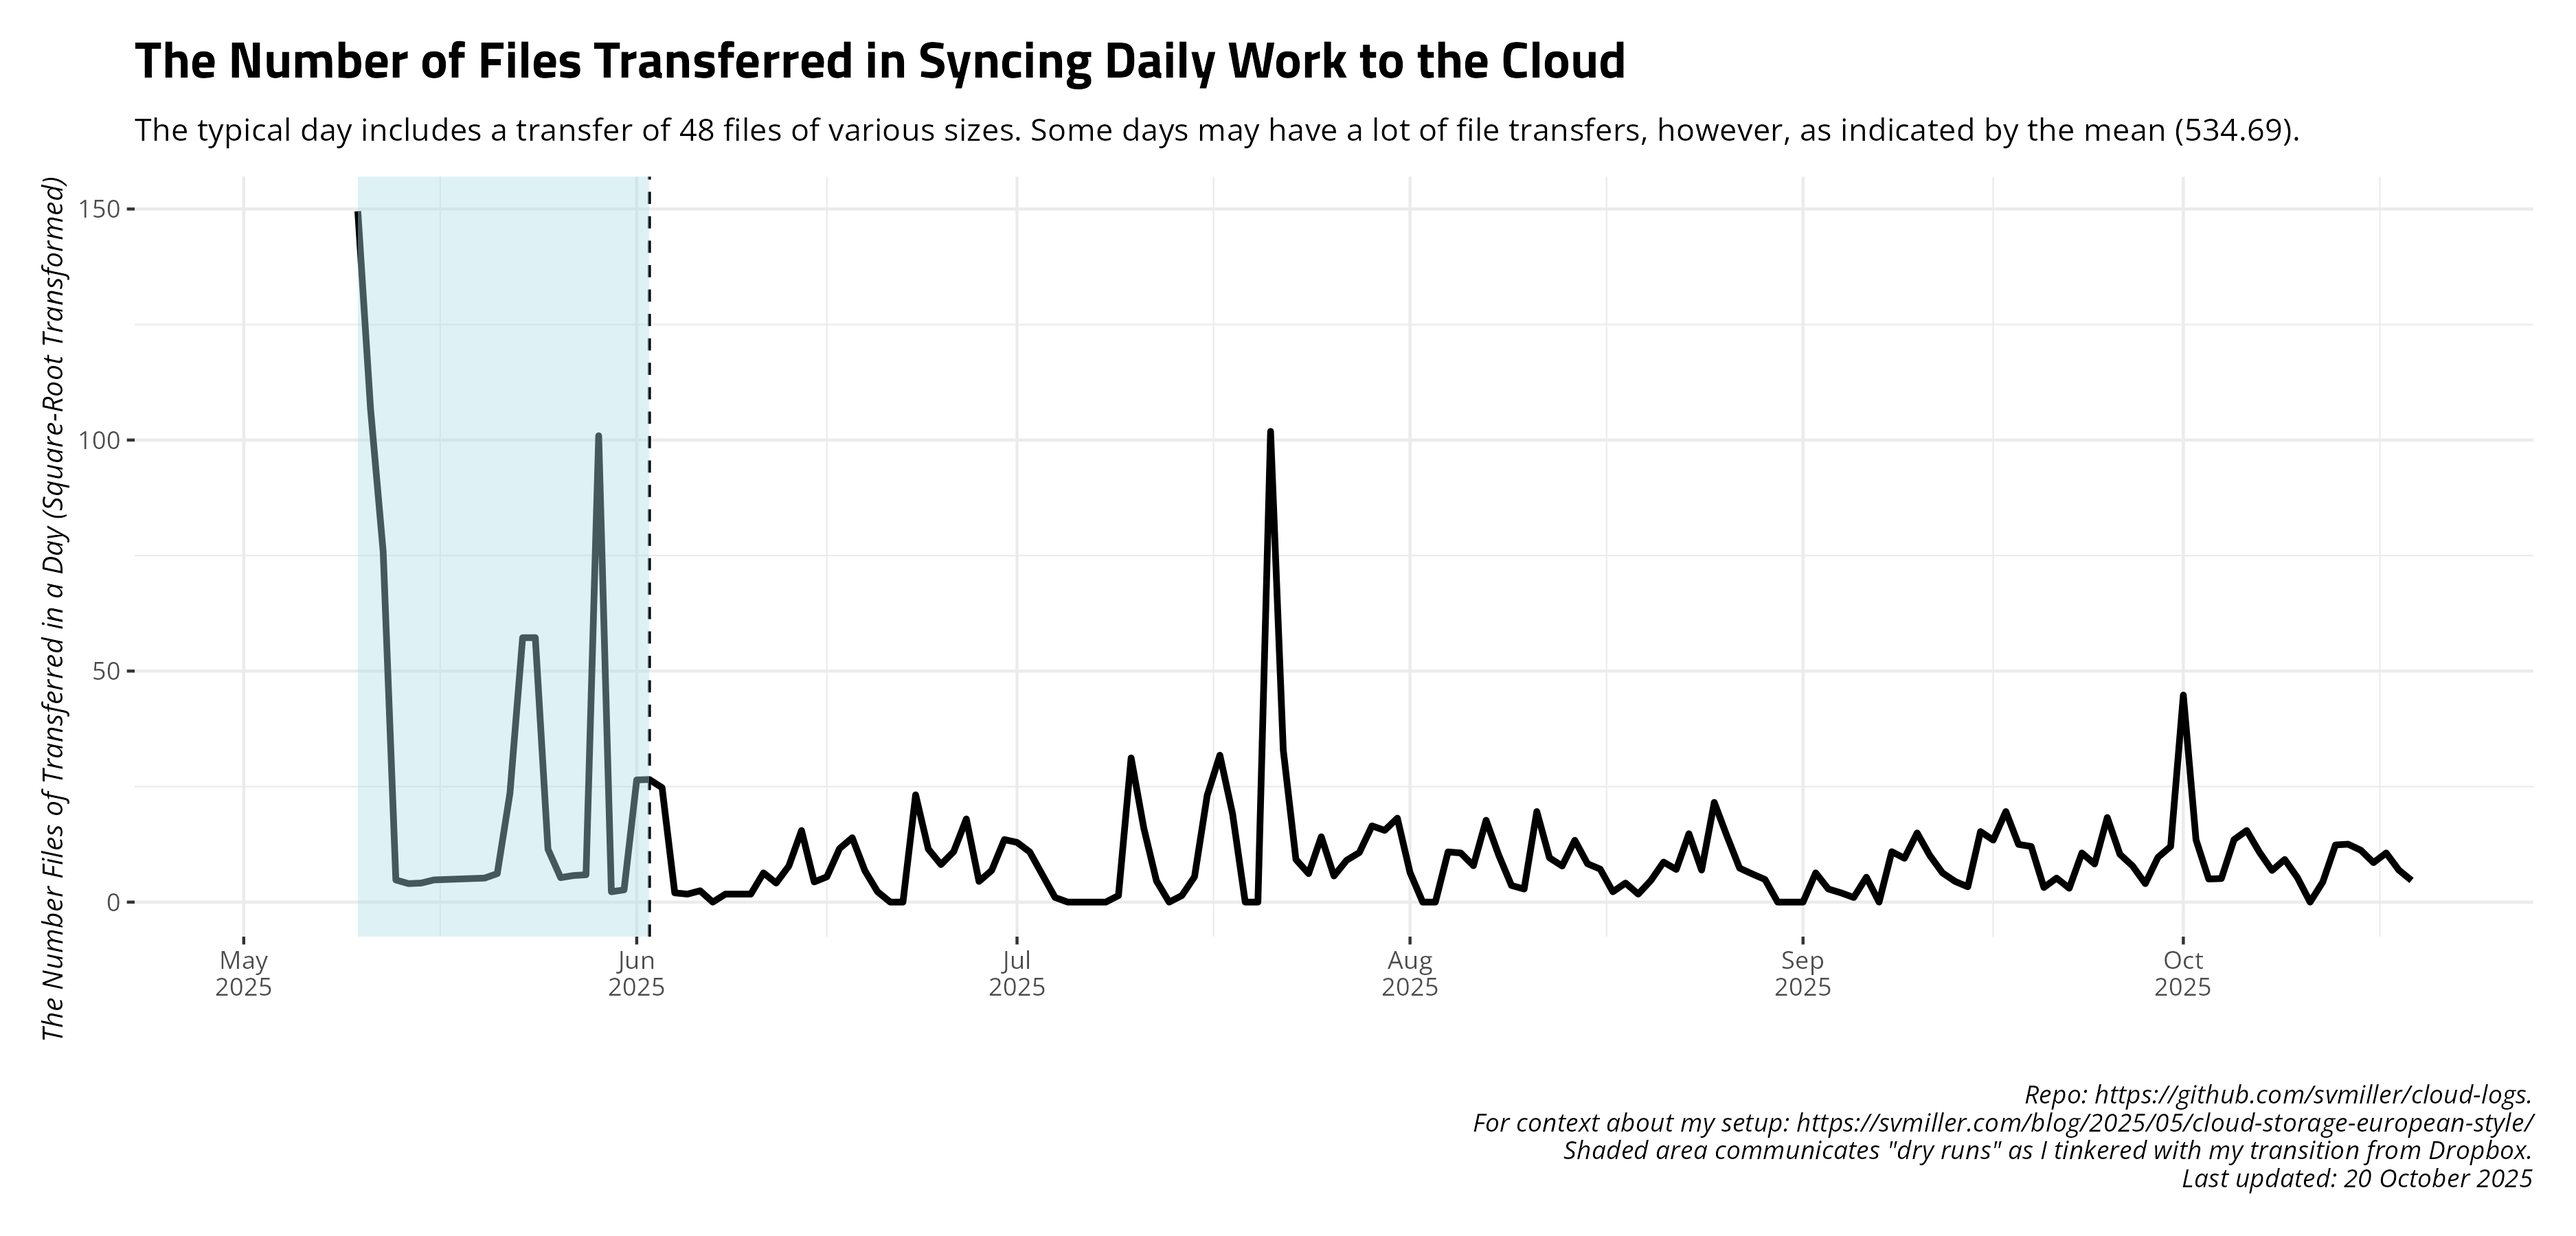
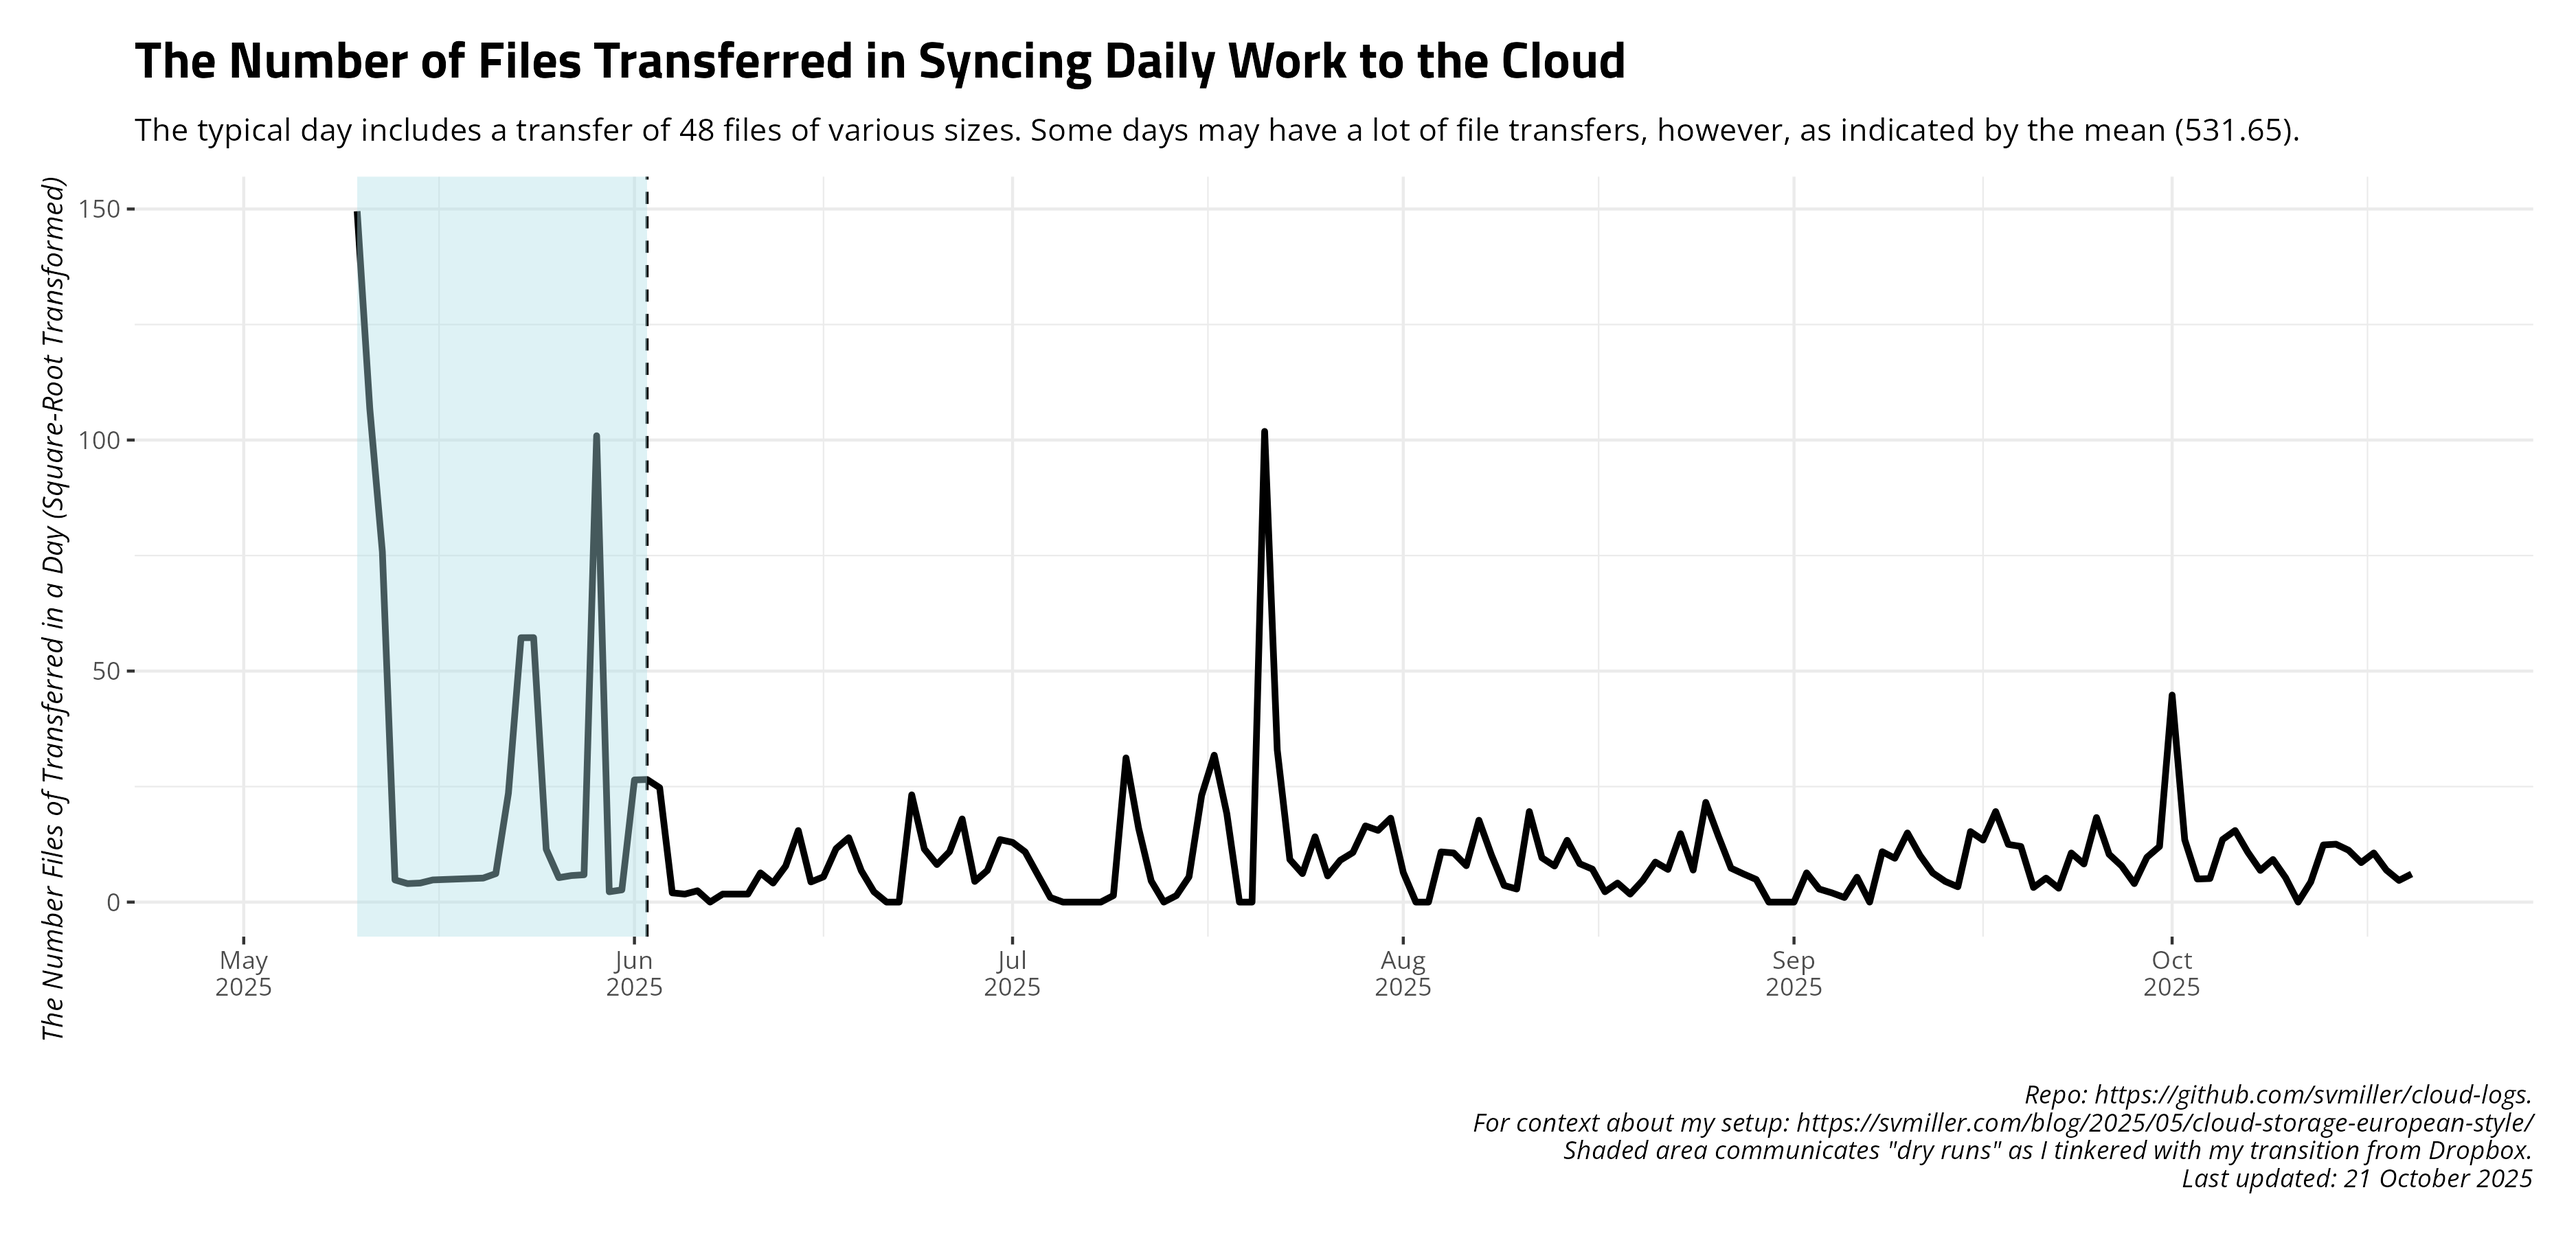
Date: 2025-10-21 09:00:14. Hi mom!

diff --git a/README.md b/README.md
@@ -27,17 +27,17 @@ and uploads to Github.
     #> # A tibble: 14 × 4
     #>    date       ftransfer stransfer   elapsed
     #>    <date>         <dbl> <chr>       <chr>  
-    #>  1 2025-10-06       240 27.655 MiB  7m58.9s
-    #>  2 2025-10-07       117 4.095 MiB   4m42.1s
-    #>  3 2025-10-08        47 591.214 KiB 5m20.9s
-    #>  4 2025-10-09        85 20.453 MiB  4m0.2s 
-    #>  5 2025-10-10        28 34.344 KiB  5m16.9s
-    #>  6 2025-10-11         0 <NA>        5m16.8s
-    #>  7 2025-10-12        19 111.027 KiB 4m24.8s
-    #>  8 2025-10-13       153 10.286 MiB  4m38.6s
-    #>  9 2025-10-14       157 6.146 MiB   4m43.3s
-    #> 10 2025-10-15       126 2.207 MiB   4m9.6s 
-    #> 11 2025-10-16        73 3.849 MiB   4m10.2s
-    #> 12 2025-10-17       113 3.125 MiB   4m52.3s
-    #> 13 2025-10-18        48 633.468 KiB 4m30.2s
-    #> 14 2025-10-19        22 67.056 KiB  4m43.2s
+    #>  1 2025-10-07       117 4.095 MiB   4m42.1s
+    #>  2 2025-10-08        47 591.214 KiB 5m20.9s
+    #>  3 2025-10-09        85 20.453 MiB  4m0.2s 
+    #>  4 2025-10-10        28 34.344 KiB  5m16.9s
+    #>  5 2025-10-11         0 <NA>        5m16.8s
+    #>  6 2025-10-12        19 111.027 KiB 4m24.8s
+    #>  7 2025-10-13       153 10.286 MiB  4m38.6s
+    #>  8 2025-10-14       157 6.146 MiB   4m43.3s
+    #>  9 2025-10-15       126 2.207 MiB   4m9.6s 
+    #> 10 2025-10-16        73 3.849 MiB   4m10.2s
+    #> 11 2025-10-17       113 3.125 MiB   4m52.3s
+    #> 12 2025-10-18        48 633.468 KiB 4m30.2s
+    #> 13 2025-10-19        22 67.056 KiB  4m43.2s
+    #> 14 2025-10-20        37 397.260 KiB 4m53.9s
